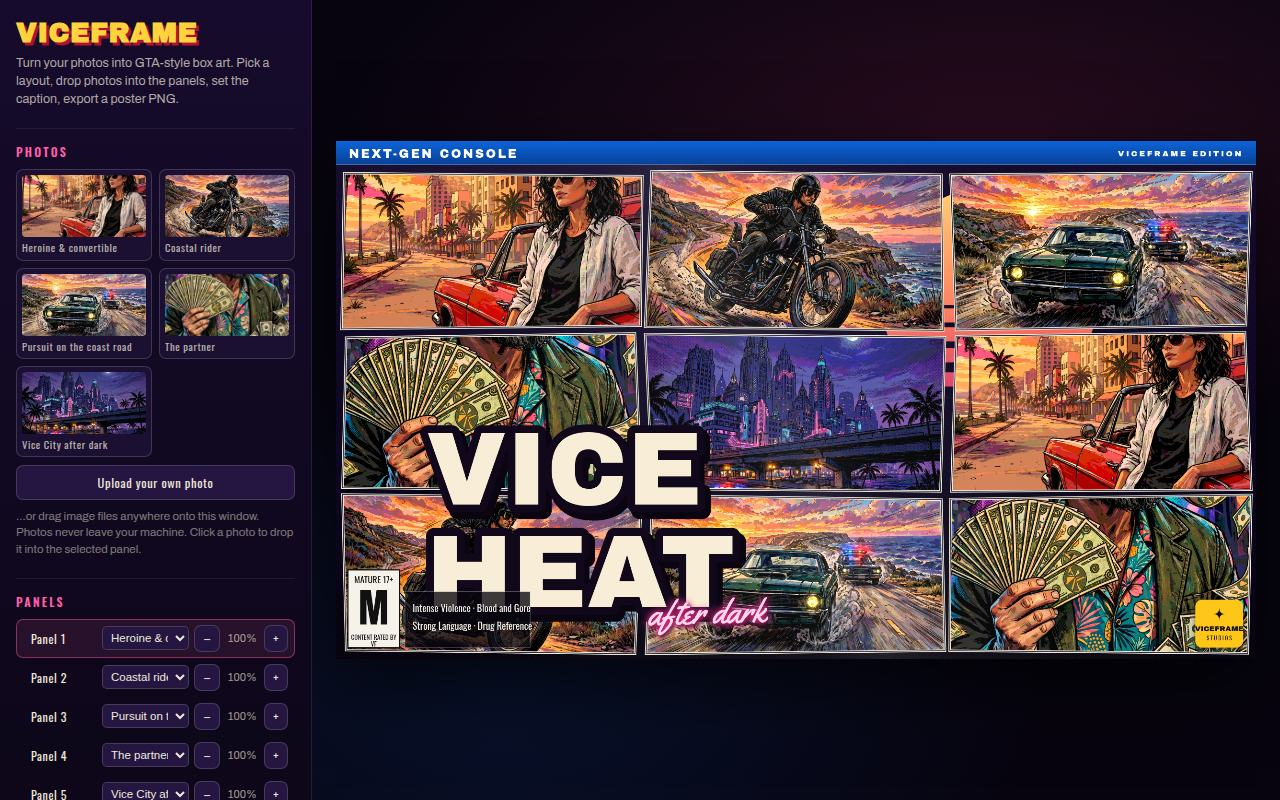
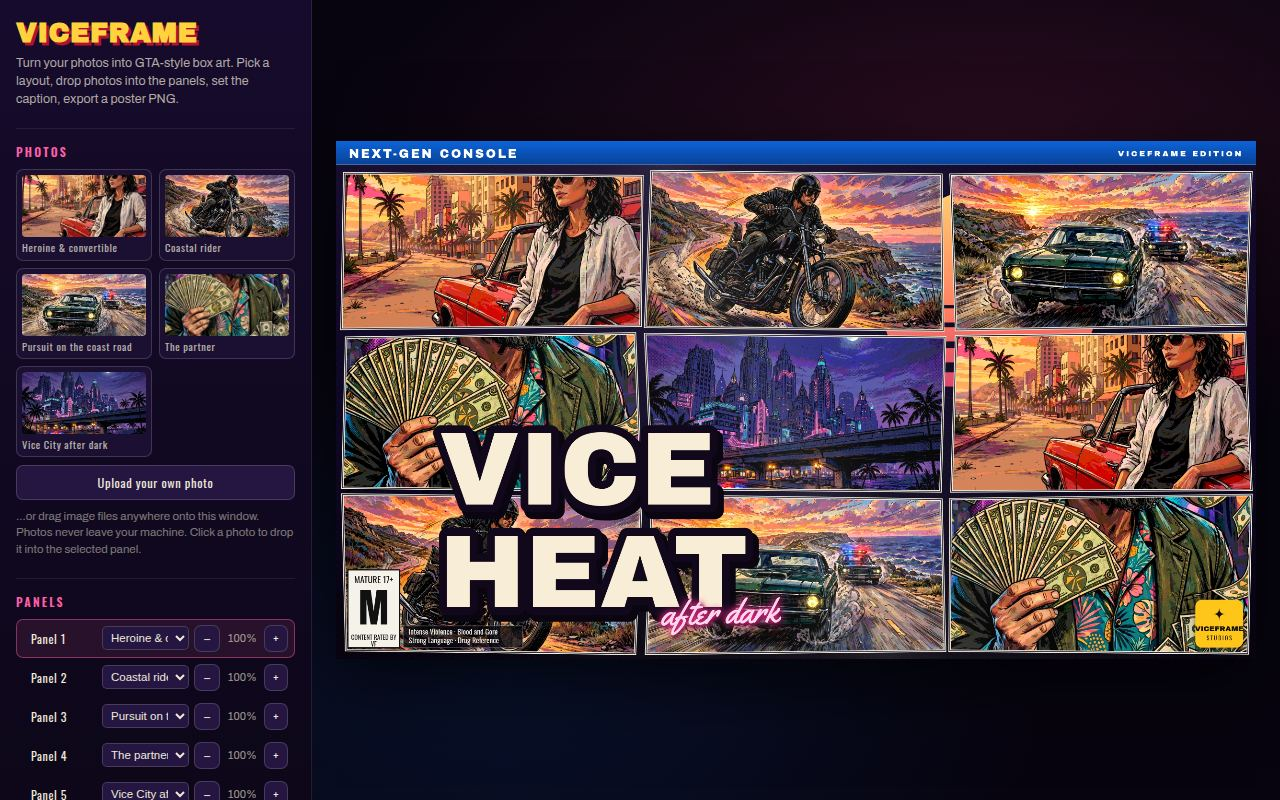
Approved cover fixes: remove car nose, partner face crop, rating strip

Changed region(s): [[0.3125, 0.5312, 0.625, 0.8125]]

diff --git a/app/src/cover.js b/app/src/cover.js
@@ -4,8 +4,8 @@
 // this module: the panel geometry for the three layouts, the colour grades
 // that unify a set of photos into one illustrated poster, the backdrop
 // dressing (retro sun, palms, skyline, halftone), the caption lettering and
-// the box furniture (platform header, rating block, studio badge, sheen and
-// the car nose that breaks a panel's frame). The module is pure canvas: it
+// the box furniture (platform header, rating block, studio badge, sheen).
+// The module is pure canvas: it
 // takes a 2d context, a pixel size, a scene description and the loaded
 // images, and paints. The editor in main.js owns the scene and the DOM.
 //
@@ -19,7 +19,7 @@
 //     crops:   { panelIndex: { z, dx, dy } },
 //     title:   'VICE\nHEAT',
 //     script:  'after dark',
-//     furniture: { header, rating, badge, sheen, nose }  // booleans
+//     furniture: { header, rating, badge, sheen }  // booleans
 //   }
 
 export const COVER_SIZES = {
@@ -68,7 +68,7 @@ export function defaultScene() {
     crops: {},
     title: 'VICE\nHEAT',
     script: 'after dark',
-    furniture: { header: true, rating: true, badge: true, sheen: true, nose: true },
+    furniture: { header: true, rating: true, badge: true, sheen: true },
   };
 }
 
@@ -531,7 +531,7 @@ export function drawPanels(ctx, scene, W, H, images) {
 
 export function titleMetrics(scene, W, H) {
   const size = scene.layout === 'hero' && W < H ? W * 0.19 : H * 0.20;
-  const x = W * 0.098;
+  const x = W * 0.098 + W * (18 / 1280);
   const lastBaseline = H * 0.90;
   return { size, x, lastBaseline, lineGap: size * 0.99 };
 }
@@ -655,10 +655,11 @@ function drawRatingBlock(ctx, W, H) {
   ctx.font = `${boxH * 0.082}px "Oswald", sans-serif`;
   ctx.fillText('CONTENT RATED BY', x + boxW / 2, y + boxH * 0.90);
   ctx.fillText('VF', x + boxW / 2, y + boxH * 0.985);
-  // The descriptor card beside it: translucent black, thin rule, two lines.
-  const dx = x + boxW + W * 0.006;
-  const dw = W * 0.136;
-  const dh = boxH * 0.72;
+  // The descriptor strip beside it: a slim translucent band bottom-aligned
+  // with the M box, two tight lines that stay clear of the title above.
+  const dx = x + boxW + W * 0.004;
+  const dw = W * 0.130;
+  const dh = H * 0.042;
   const dy = y + boxH - dh;
   ctx.fillStyle = 'rgba(8,6,14,0.78)';
   ctx.fillRect(dx, dy, dw, dh);
@@ -667,9 +668,9 @@ function drawRatingBlock(ctx, W, H) {
   ctx.strokeRect(dx, dy, dw, dh);
   ctx.fillStyle = '#f2eee6';
   ctx.textAlign = 'left';
-  ctx.font = `${dh * 0.175}px "Oswald", sans-serif`;
-  ctx.fillText('Intense Violence · Blood and Gore', dx + dw * 0.06, dy + dh * 0.36);
-  ctx.fillText('Strong Language · Drug Reference', dx + dw * 0.06, dy + dh * 0.68);
+  ctx.font = `${dh * 0.34}px "Oswald", sans-serif`;
+  ctx.fillText('Intense Violence · Blood and Gore', dx + dw * 0.045, dy + dh * 0.40);
+  ctx.fillText('Strong Language · Drug Reference', dx + dw * 0.045, dy + dh * 0.79);
   ctx.textAlign = 'left';
 }
 
@@ -722,92 +723,12 @@ function drawSheen(ctx, W, H) {
   ctx.restore();
 }
 
-function drawCarNose(ctx, W, H, anchor) {
-  // A glossy red convertible nose poking past the chase panel's lower-left
-  // corner — the one piece of the collage allowed to break its frame. Drawn
-  // as a side profile: windshield wedge at the rear, a long hood falling to
-  // the nose tip, a ringed headlight, a chrome bumper and the top of the
-  // front wheel, so it reads as a car at a glance rather than a red streak.
-  const w = W * 0.128;
-  const h = w * 0.46;
-  ctx.save();
-  ctx.translate(anchor.x, anchor.y);
-  ctx.rotate(-0.07);
-  ctx.shadowColor = 'rgba(0,0,0,0.55)';
-  ctx.shadowBlur = h * 0.28;
-  ctx.shadowOffsetY = h * 0.10;
-  const body = ctx.createLinearGradient(0, 0, 0, h);
-  body.addColorStop(0, '#f0445e');
-  body.addColorStop(0.45, '#c21532');
-  body.addColorStop(1, '#700b1f');
-  ctx.fillStyle = body;
-  ctx.beginPath();
-  ctx.moveTo(0, h * 0.92);
-  ctx.lineTo(w * 0.015, h * 0.52);
-  ctx.quadraticCurveTo(w * 0.03, h * 0.30, w * 0.17, h * 0.26); // rear deck
-  ctx.quadraticCurveTo(w * 0.30, h * 0.02, w * 0.44, h * 0.05); // windshield rise
-  ctx.quadraticCurveTo(w * 0.52, h * 0.07, w * 0.58, h * 0.24); // cowl
-  ctx.quadraticCurveTo(w * 0.82, h * 0.30, w * 0.965, h * 0.50); // hood to tip
-  ctx.quadraticCurveTo(w * 1.005, h * 0.56, w * 0.99, h * 0.72); // nose face
-  ctx.lineTo(w * 0.965, h * 0.90);
-  ctx.quadraticCurveTo(w * 0.60, h * 1.0, w * 0.30, h * 0.97);
-  ctx.quadraticCurveTo(w * 0.10, h * 0.95, 0, h * 0.92);
-  ctx.closePath();
-  ctx.fill();
-  ctx.shadowColor = 'transparent';
-  // Windshield glass over the rise.
-  ctx.fillStyle = 'rgba(16,14,34,0.92)';
-  ctx.beginPath();
-  ctx.moveTo(w * 0.235, h * 0.235);
-  ctx.quadraticCurveTo(w * 0.315, h * 0.045, w * 0.435, h * 0.065);
-  ctx.quadraticCurveTo(w * 0.475, h * 0.075, w * 0.50, h * 0.225);
-  ctx.quadraticCurveTo(w * 0.36, h * 0.19, w * 0.235, h * 0.235);
-  ctx.closePath();
-  ctx.fill();
-  // Hood highlight streak.
-  ctx.strokeStyle = 'rgba(255,190,190,0.5)';
-  ctx.lineWidth = h * 0.045;
-  ctx.beginPath();
-  ctx.moveTo(w * 0.56, h * 0.33);
-  ctx.quadraticCurveTo(w * 0.78, h * 0.37, w * 0.94, h * 0.52);
-  ctx.stroke();
-  // Headlight: chrome ring, pale lens, bright core.
-  ctx.beginPath();
-  ctx.ellipse(w * 0.905, h * 0.60, w * 0.052, h * 0.115, 0, 0, Math.PI * 2);
-  ctx.fillStyle = '#d9d4c8';
-  ctx.fill();
-  ctx.beginPath();
-  ctx.ellipse(w * 0.905, h * 0.60, w * 0.040, h * 0.088, 0, 0, Math.PI * 2);
-  ctx.fillStyle = '#ffe9a8';
-  ctx.fill();
-  ctx.beginPath();
-  ctx.ellipse(w * 0.905, h * 0.60, w * 0.016, h * 0.036, 0, 0, Math.PI * 2);
-  ctx.fillStyle = '#fffbe8';
-  ctx.fill();
-  // Front wheel crown and a chrome bumper line.
-  ctx.beginPath();
-  ctx.arc(w * 0.76, h * 0.99, w * 0.085, Math.PI, Math.PI * 2);
-  ctx.fillStyle = '#0c0a12';
-  ctx.fill();
-  ctx.beginPath();
-  ctx.arc(w * 0.76, h * 0.99, w * 0.038, Math.PI, Math.PI * 2);
-  ctx.fillStyle = '#cfd4da';
-  ctx.fill();
-  ctx.fillStyle = 'rgba(240,244,248,0.9)';
-  ctx.fillRect(w * 0.30, h * 0.86, w * 0.66, h * 0.055);
-  ctx.restore();
-}
-
 // ---------------------------------------------------------------- the draw
 
 export function drawCover(ctx, W, H, scene, images) {
   drawBackdrop(ctx, W, H);
   const quads = drawPanels(ctx, scene, W, H, images);
   if (scene.furniture.sheen) drawSheen(ctx, W, H);
-  if (scene.furniture.nose && scene.layout === 'hero' && quads[2]) {
-    const b = quadBounds(quads[2]);
-    drawCarNose(ctx, W, H, { x: b.x - W * 0.012, y: b.y + b.h - H * 0.068 });
-  }
   if (scene.furniture.header) drawHeaderBar(ctx, W, H);
   const titleBox = drawTitle(ctx, scene, W, H);
   drawScript(ctx, scene, W, H, titleBox);

diff --git a/app/src/main.js b/app/src/main.js
@@ -211,7 +211,6 @@ function buildFurniture() {
     ['rating', 'Rating block + descriptors'],
     ['badge', 'Studio badge'],
     ['sheen', 'Box sheen sweep'],
-    ['nose', 'Car nose breaking the frame'],
   ];
   for (const [key, label] of items) {
     const row = document.createElement('label');
